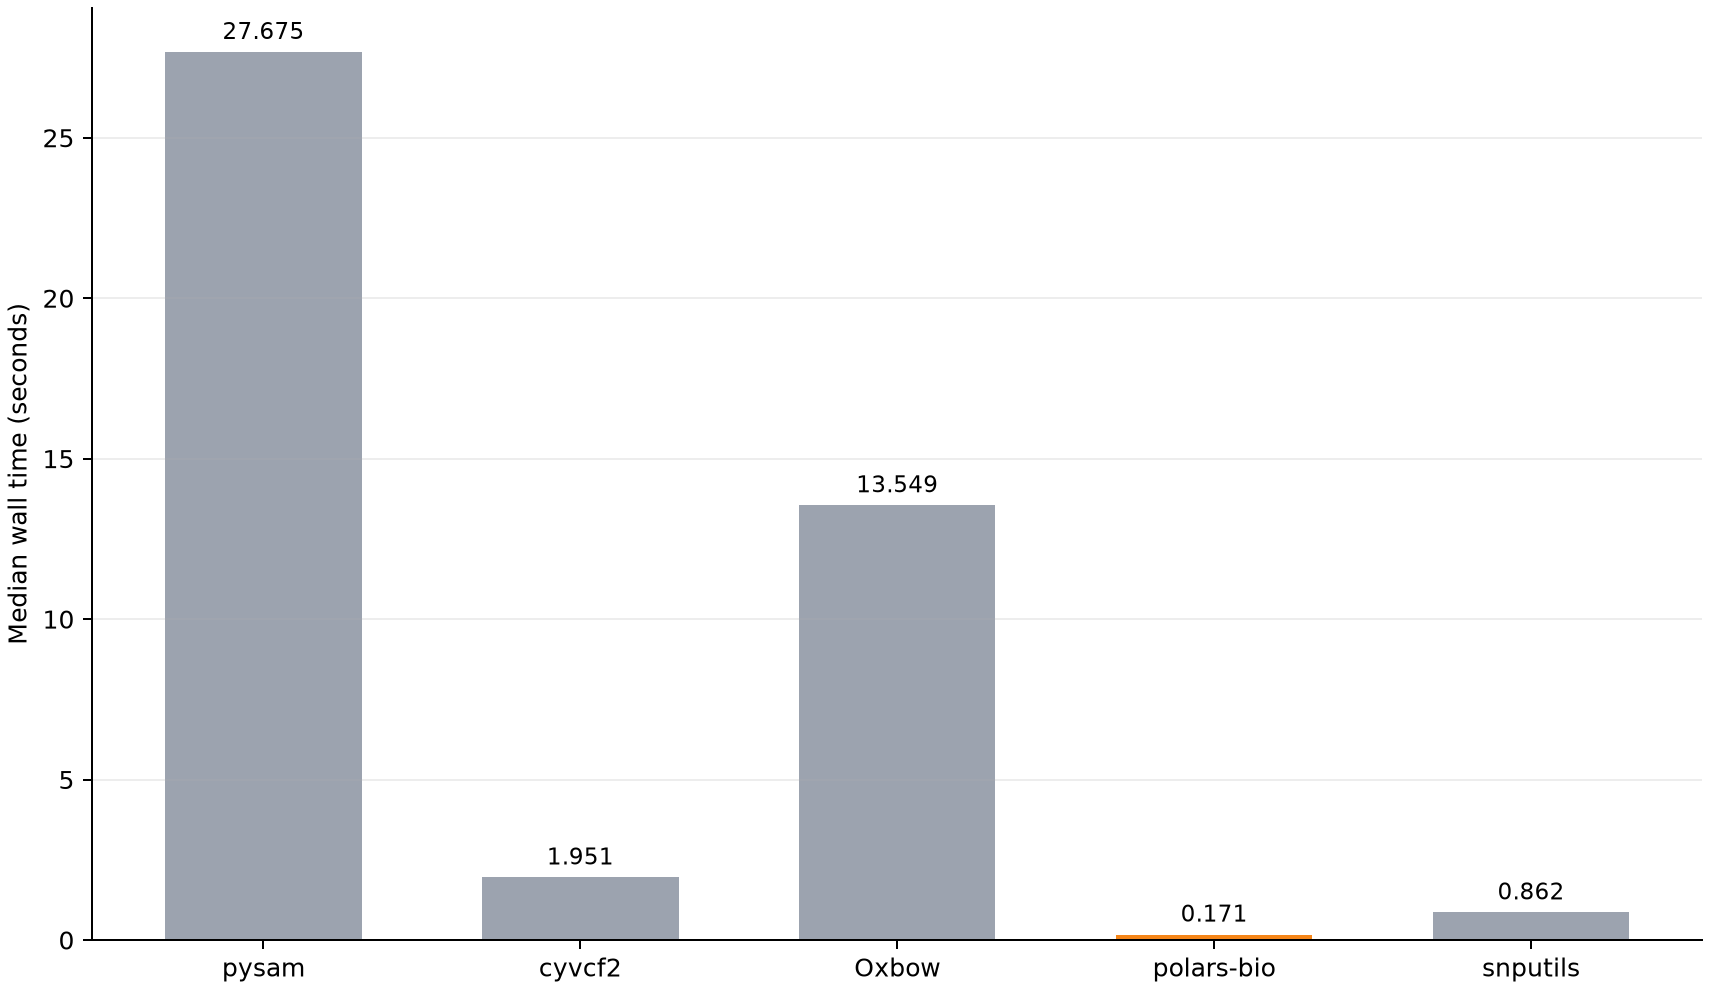
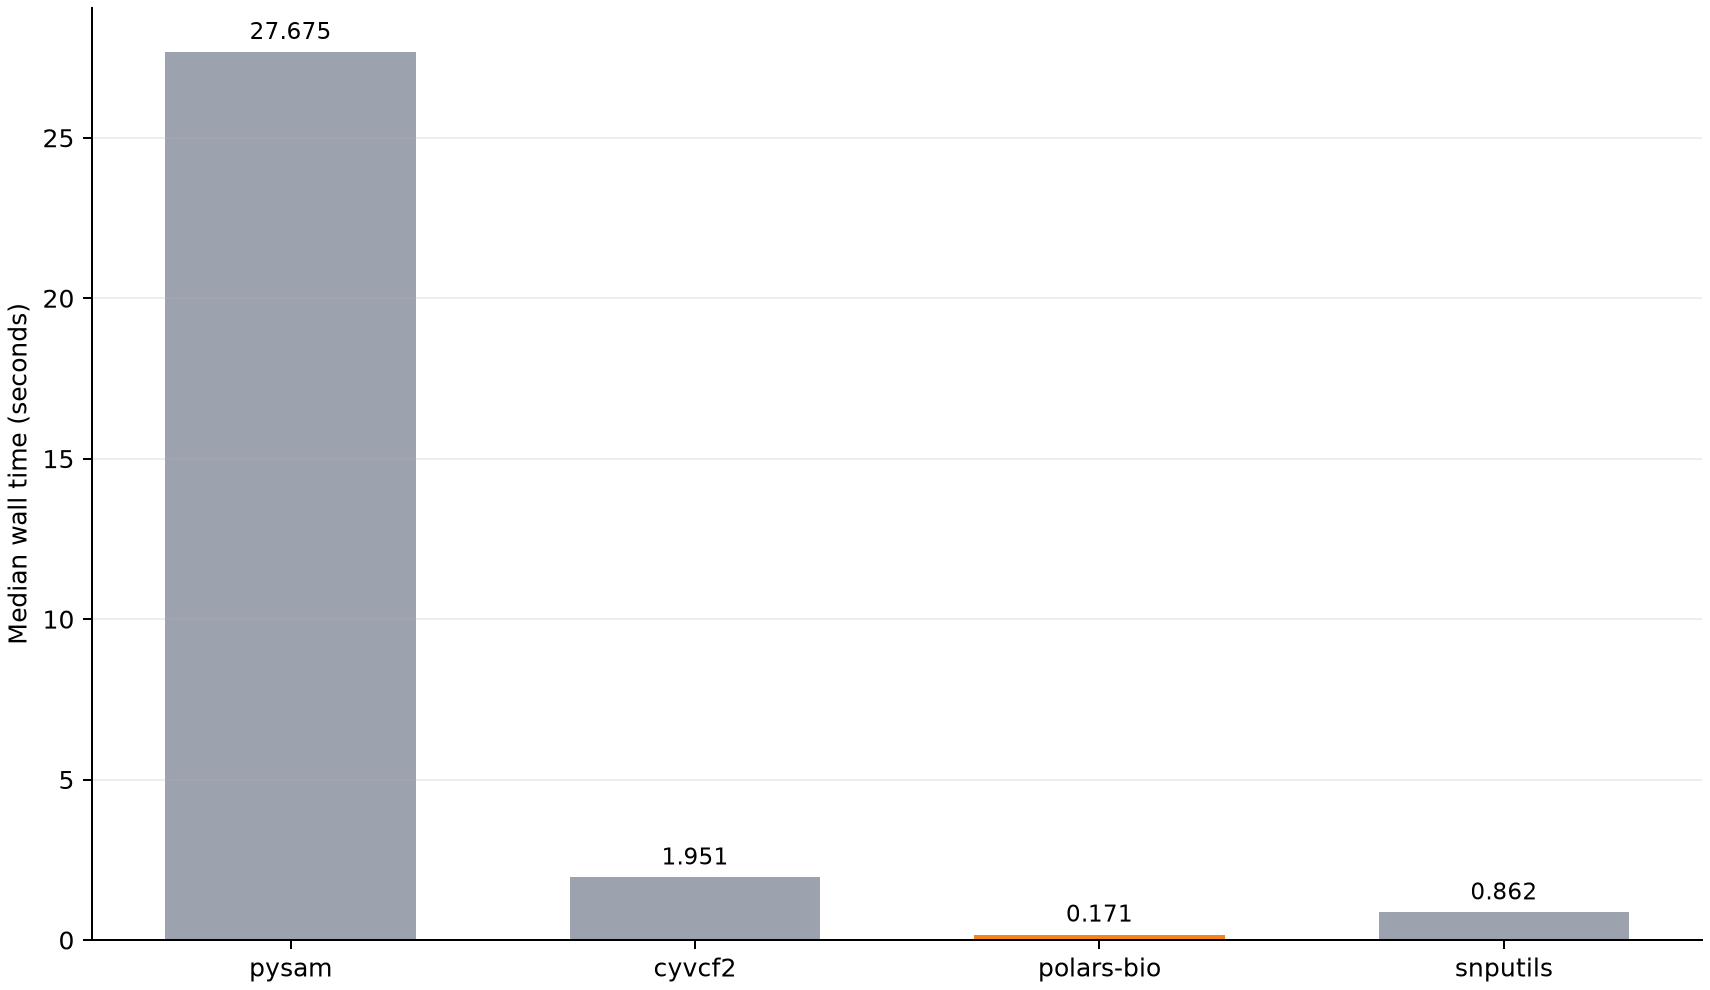
docs: update genotype benchmark for 0.34.0

diff --git a/docs/blog/posts/bcf-genotype-readers-2026-08.md b/docs/blog/posts/bcf-genotype-readers-2026-08.md
@@ -61,7 +61,7 @@ are compared element by element after verifying positions and sample order.
 
 | Workload | Oracle | polars-bio mismatches | Other readers vs oracle |
 |---|---|---:|---|
-| BCF dosage, 63.7M cells | pysam | **0** | cyvcf2 0; Oxbow 0; snputils 0 |
+| BCF dosage, 63.7M cells | pysam | **0** | cyvcf2 0; snputils 0 |
 | PGEN hardcall, 2.53B cells | pgenlib | **0** | snputils 0 |
 | PGEN dosage, 2.53B cells | pgenlib | **0** | snputils 0 |
 | BGEN dosage, 2.53B cells | `bgen` | **0** | snputils 126,259,603 |
@@ -85,7 +85,6 @@ all three readers agree exactly.
 | **polars-bio** | **0.171 s** |
 | snputils | 0.862 s |
 | cyvcf2 | 1.951 s |
-| Oxbow | 13.549 s |
 | pysam | 27.675 s |
 
 ![BCF one-thread comparison](figures/genotype-readers-2026-08/bcf-one-thread.png)
@@ -122,15 +121,26 @@ This rerun corrects the earlier claim that polars-bio was fastest on BGEN at
 one thread. The `bgen` package leads by 0.425 s, while polars-bio remains 1.54×
 faster than snputils.
 
-Parallel results are deliberately kept out of the tables above. For context,
-polars-bio reaches 0.242 s / 0.385 s on PGEN hardcall/dosage and 2.071 s on
-BGEN dosage at eight partitions. Those numbers describe polars-bio scaling;
-they are not comparisons with the serial readers.
+### polars-bio scalability
+
+The cross-reader tables stay at one thread. Separately, the same full-chromosome
+polars-bio workloads were run with 1, 2, 4, and 8 partitions:
+
+| Workload | 1 partition | 2 partitions | 4 partitions | 8 partitions | Speedup at 8 |
+|---|---:|---:|---:|---:|---:|
+| PGEN hardcall | 0.699 s | 0.434 s | 0.311 s | 0.242 s | 2.89× |
+| PGEN dosage | 1.312 s | 0.792 s | 0.513 s | 0.385 s | 3.41× |
+| BGEN dosage | 11.404 s | 6.529 s | 3.598 s | 2.071 s | 5.51× |
+
+![polars-bio genotype-reader scaling](figures/genotype-readers-2026-08/scaling-all-formats.png)
+
+These are within-reader scaling results, not comparisons against the serial
+reference readers.
 
 ## Reproduce
 
-These results use [polars-bio PR #436](https://github.com/biodatageeks/polars-bio/pull/436)
-with every formats crate pinned to the released
+These results cover the code shipping as polars-bio 0.34.0, with every formats
+crate pinned to the released
 [`datafusion-bio-formats` v1.10.0](https://github.com/biodatageeks/datafusion-bio-formats/releases/tag/v1.10.0)
 commit `0d9730c`, and the current
 [snputils benchmark](https://github.com/AI-sandbox/snputils/tree/main/benchmark)
@@ -138,7 +148,7 @@ at `482c6d1`.
 
 | Component | Version |
 |---|---|
-| polars-bio | 0.33.1, PR #436 |
+| polars-bio | 0.34.0 |
 | snputils | 1.1.1.dev19+g482c6d1df |
 | pgenlib / `bgen` / pysam | 0.94.1 / 1.10.0 / 0.24.0 |
 | Polars / PyArrow / NumPy | 1.42.1 / 24.0.0 / 2.5.2 |
@@ -152,7 +162,7 @@ RUSTFLAGS="-C target-cpu=native" maturin develop --release --locked
 
 The runners, fixture construction, raw-result schema, and exact verification
 logic are in
-[bioformats-benchmark PR #4](https://github.com/biodatageeks/bioformats-benchmark/pull/4):
+[bioformats-benchmark](https://github.com/biodatageeks/bioformats-benchmark):
 `run_genotype_matrix_benchmarks.py`, `run_pgen_benchmarks.py`, and
 `run_bgen_benchmarks.py`.
 
